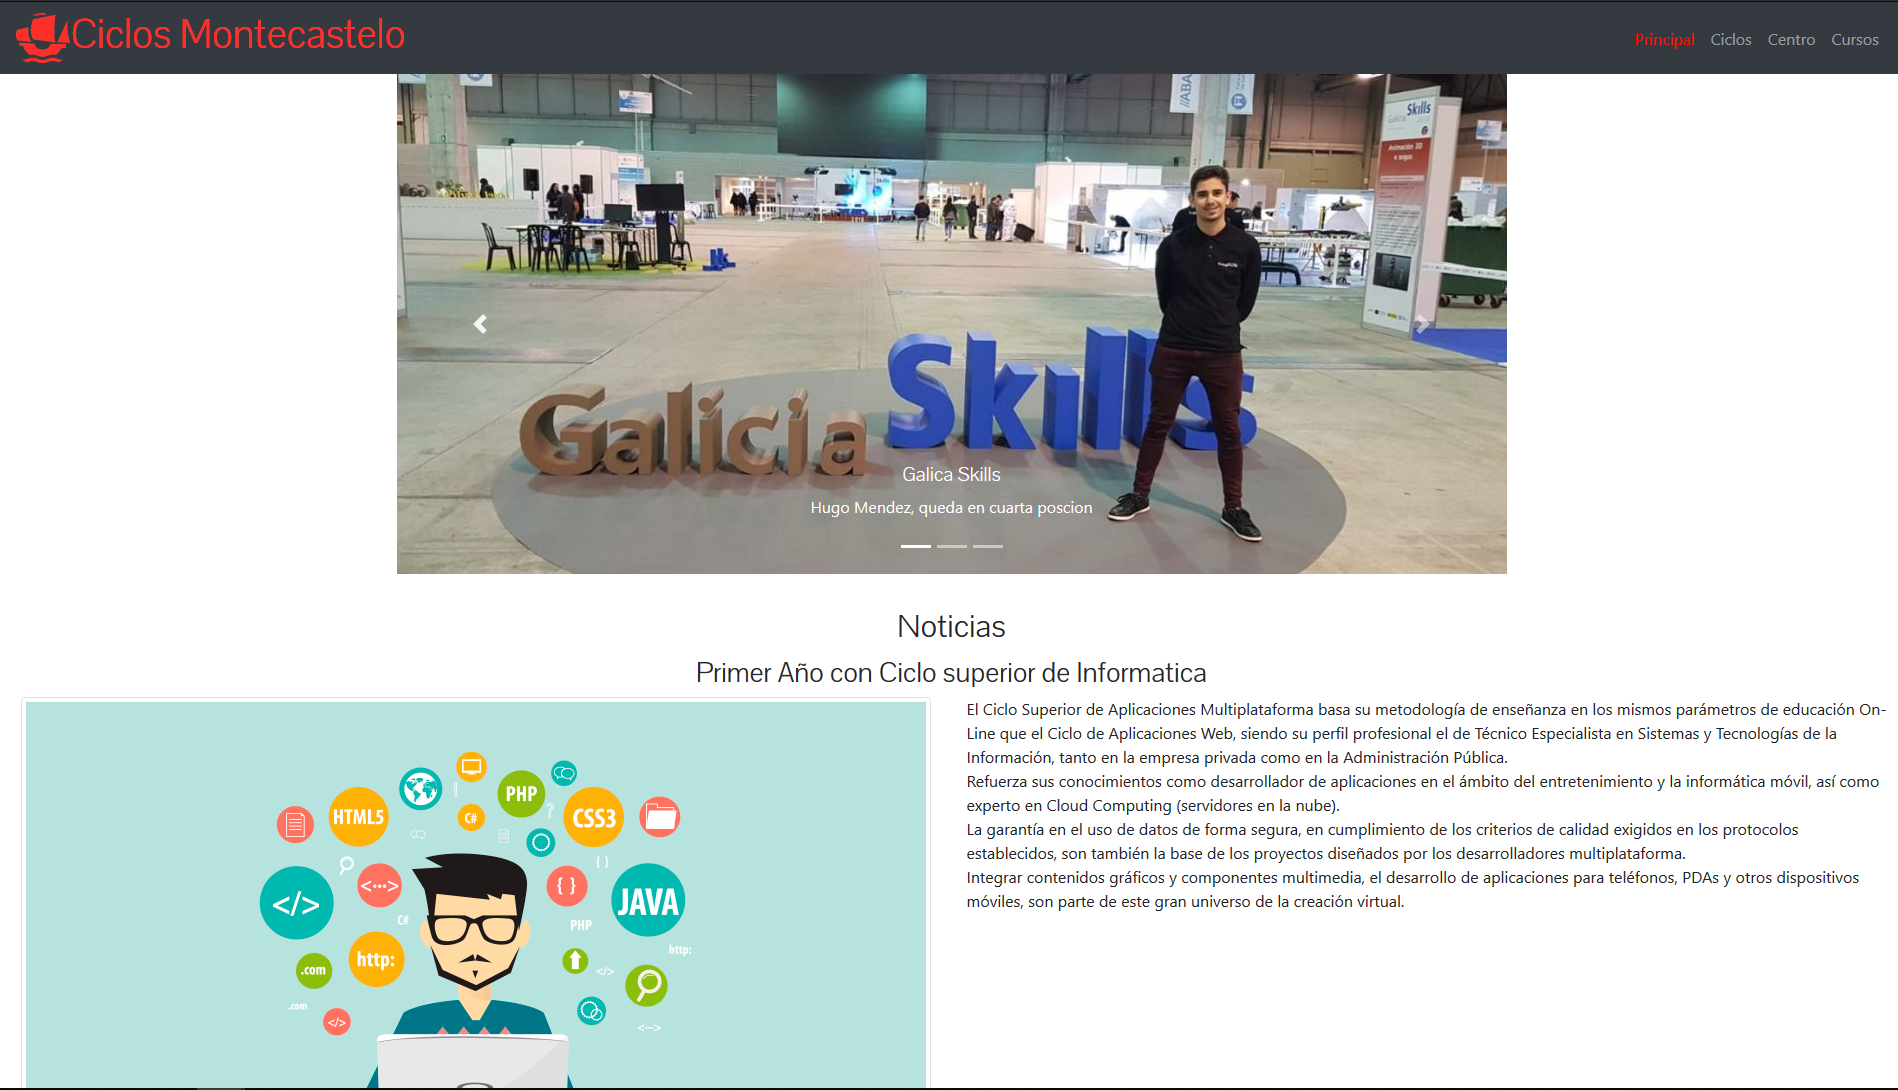
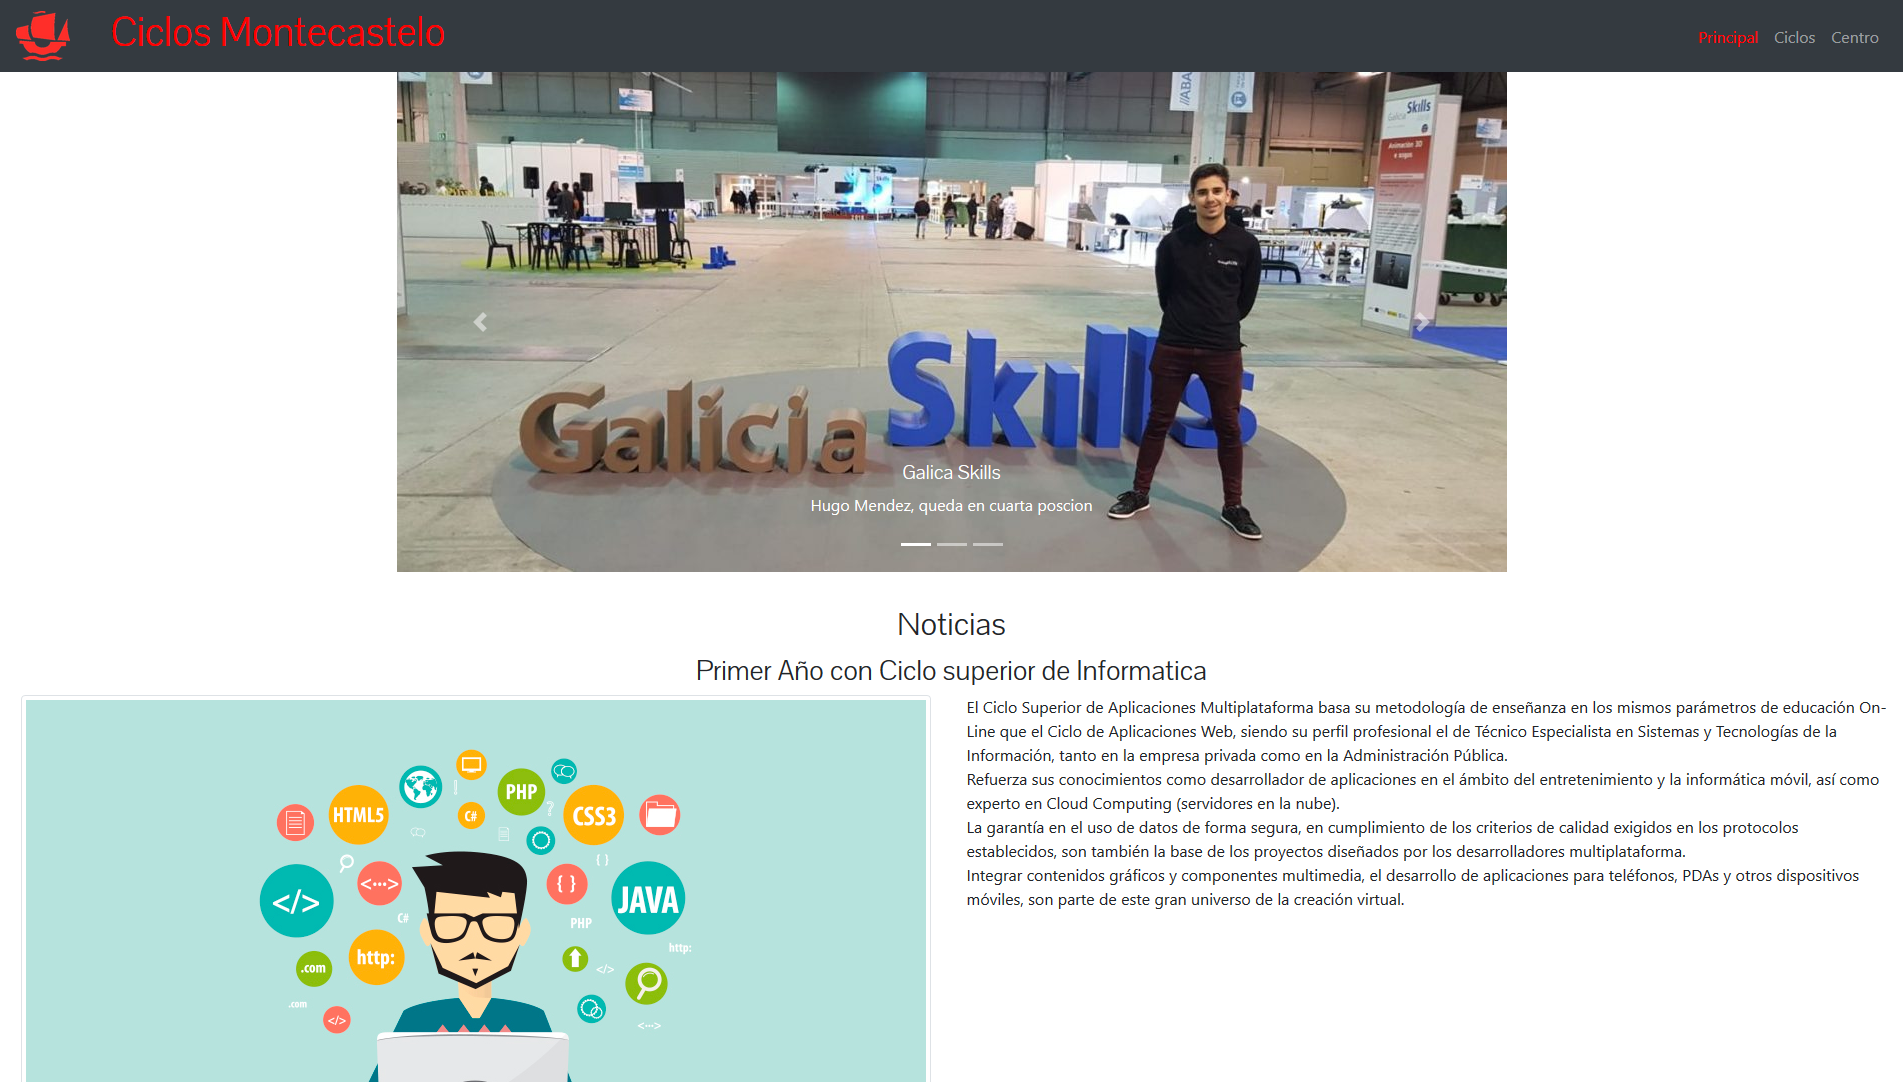
v45

diff --git a/Ciclos.html b/Ciclos.html
@@ -9,7 +9,7 @@
     <meta name="viewport" content="width=device-width, initial-scale=1, shrink-to-fit=no">
     <link href="https://fonts.googleapis.com/css?family=Titillium+Web" rel="stylesheet">
     <link rel="stylesheet" href="https://use.fontawesome.com/releases/v5.5.0/css/all.css" integrity="sha384-B4dIYHKNBt8Bc12p+WXckhzcICo0wtJAoU8YZTY5qE0Id1GSseTk6S+L3BlXeVIU" crossorigin="anonymous">
-    
+    <link rel="shortcut icon" href="Imagenes/LogoMontecastelo.png" type="image/x-icon">
     <!-- Bootstrap CSS -->
     <link rel="stylesheet" href="https://stackpath.bootstrapcdn.com/bootstrap/4.1.3/css/bootstrap.min.css" integrity="sha384-MCw98/SFnGE8fJT3GXwEOngsV7Zt27NXFoaoApmYm81iuXoPkFOJwJ8ERdknLPMO" crossorigin="anonymous">
  
@@ -19,7 +19,7 @@
     <header>         
         <nav class="navbar navbar-expand-lg navbar-dark bg-dark">
             <img class="logo" src="Imagenes/LogoMontecastelo.png" height="50">
-            
+            <h1 style="color:red; margin-left: 1em;">Ciclos Montecastelo</h1>
             <button class="navbar-toggler" type="button" data-toggle="collapse" data-target="#navbar1" aria-controls="navbarNav" aria-expanded="false" aria-label="Toggle navigation">
                  <span class="navbar-toggler-icon"></span>
             </button>
@@ -28,12 +28,15 @@
                     <li class="nav-item "><a class="nav-link" href="PrincipalCiclos.html">Principal</a></li>
                     <li class="nav-item active"><a class="nav-link" href="Ciclos.html" style="color:red"> Ciclos <span class="sr-only">(current)</span></a></li>
                     <li class="nav-item"><a class="nav-link" href="CiclosCentro.html"> Centro </a></li>
-                    <li class="nav-item"><a class="nav-link" href="CiclosCursos.html"> Cursos </a></li>    
+                       
                 </ul>
             </div>
         </nav> 
     </header>
 <main>
+
+
+
 
 </main>
 

diff --git a/CiclosCentro.html b/CiclosCentro.html
@@ -9,7 +9,7 @@
     <meta name="viewport" content="width=device-width, initial-scale=1, shrink-to-fit=no">
     <link href="https://fonts.googleapis.com/css?family=Titillium+Web" rel="stylesheet">
     <link rel="stylesheet" href="https://use.fontawesome.com/releases/v5.5.0/css/all.css" integrity="sha384-B4dIYHKNBt8Bc12p+WXckhzcICo0wtJAoU8YZTY5qE0Id1GSseTk6S+L3BlXeVIU" crossorigin="anonymous">
-    
+    <link rel="shortcut icon" href="Imagenes/LogoMontecastelo.png" type="image/x-icon">
     <!-- Bootstrap CSS -->
     <link rel="stylesheet" href="https://stackpath.bootstrapcdn.com/bootstrap/4.1.3/css/bootstrap.min.css" integrity="sha384-MCw98/SFnGE8fJT3GXwEOngsV7Zt27NXFoaoApmYm81iuXoPkFOJwJ8ERdknLPMO" crossorigin="anonymous">
  
@@ -19,7 +19,7 @@
       <header>         
         <nav class="navbar navbar-expand-lg navbar-dark bg-dark">
             <img class="logo" src="Imagenes/LogoMontecastelo.png" height="50">
-            
+            <h1 style="color:red; margin-left: 1em;">Ciclos Montecastelo</h1>
             <button class="navbar-toggler" type="button" data-toggle="collapse" data-target="#navbar1" aria-controls="navbarNav" aria-expanded="false" aria-label="Toggle navigation">
                  <span class="navbar-toggler-icon"></span>
             </button>
@@ -28,7 +28,7 @@
                     <li class="nav-item "><a class="nav-link" href="PrincipalCiclos.html" >Principal</a></li>
                     <li class="nav-item"><a class="nav-link" href="Ciclos.html"> Ciclos </a></li>
                     <li class="nav-item active"><a class="nav-link" href="CiclosCentro.html" style="color:red"> Centro <span class="sr-only">(current)</span></a></li>
-                    <li class="nav-item"><a class="nav-link" href="CiclosCursos.html"> Cursos </a></li>    
+                       
                 </ul>
             </div>
         </nav> 

diff --git a/PrincipalCiclos.html b/PrincipalCiclos.html
@@ -20,7 +20,7 @@
         <header>         
             <nav class="navbar navbar-expand-lg navbar-dark bg-dark">
                 <img class="logo" src="Imagenes/LogoMontecastelo.png" height="50">
-                <h1 style="color:#FF2E29;">Ciclos Montecastelo</h1>
+                <h1 style="color:red; margin-left: 1em;">Ciclos Montecastelo</h1>
                 <button class="navbar-toggler" type="button" data-toggle="collapse" data-target="#navbar1" aria-controls="navbarNav" aria-expanded="false" aria-label="Toggle navigation">
                      <span class="navbar-toggler-icon"></span>
                 </button>
@@ -28,8 +28,7 @@
                     <ul class="navbar-nav ml-auto"> 
                         <li class="nav-item active"><a class="nav-link" href="" style="color:red">Principal<span class="sr-only">(current)</span></a></li>
                         <li class="nav-item "><a class="nav-link" href="Ciclos.html"> Ciclos </a></li>
-                        <li class="nav-item"><a class="nav-link" href="CiclosCentro.html"> Centro </a></li>
-                        <li class="nav-item"><a class="nav-link" href="CiclosCursos.html"> Cursos </a></li>    
+                        <li class="nav-item"><a class="nav-link" href="CiclosCentro.html"> Centro </a></li>    
                     </ul>
                 </div>
             </nav>    
